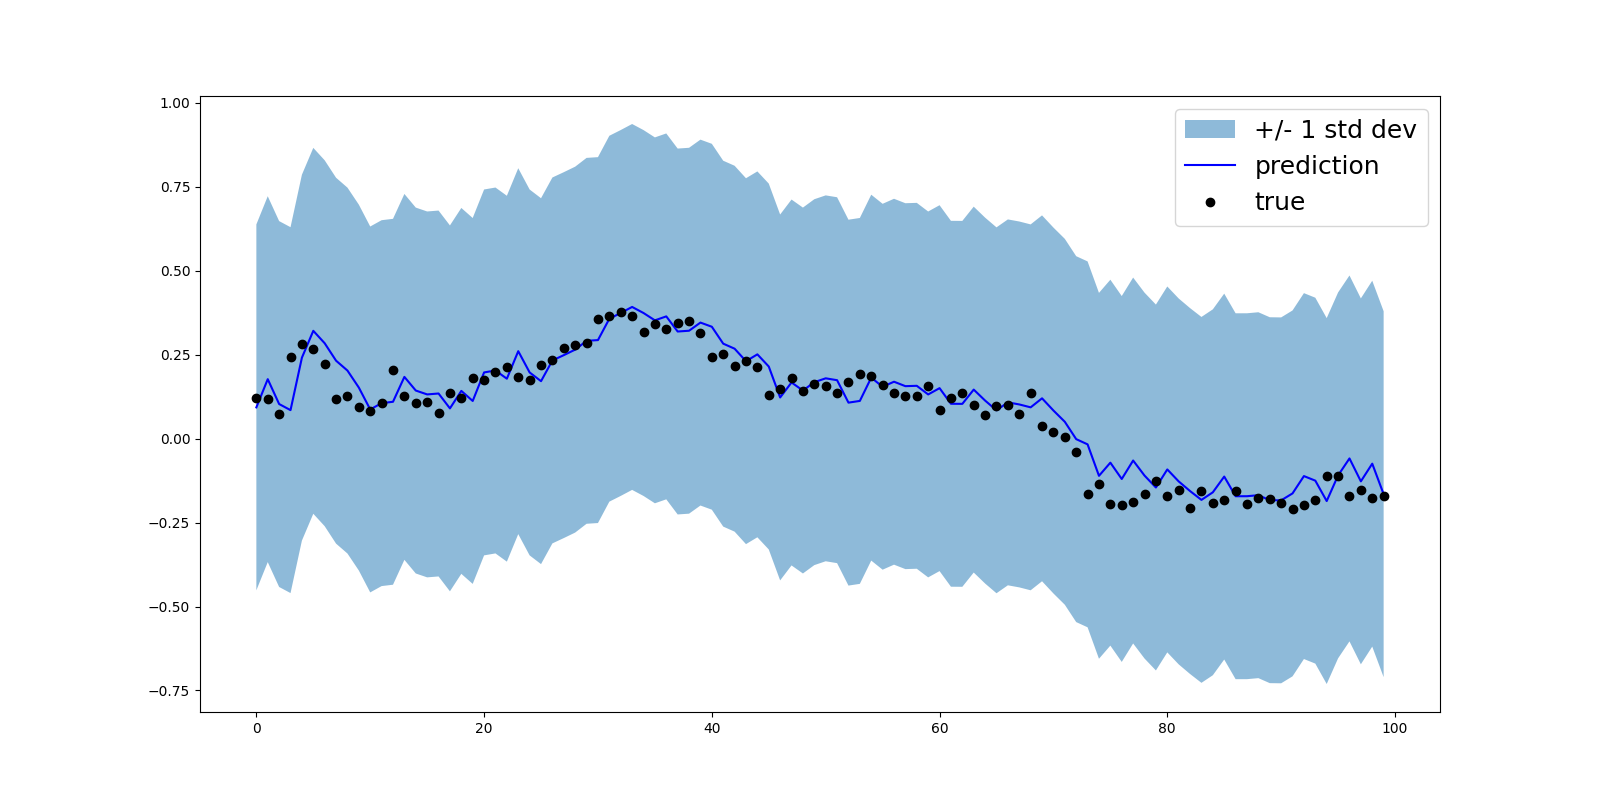
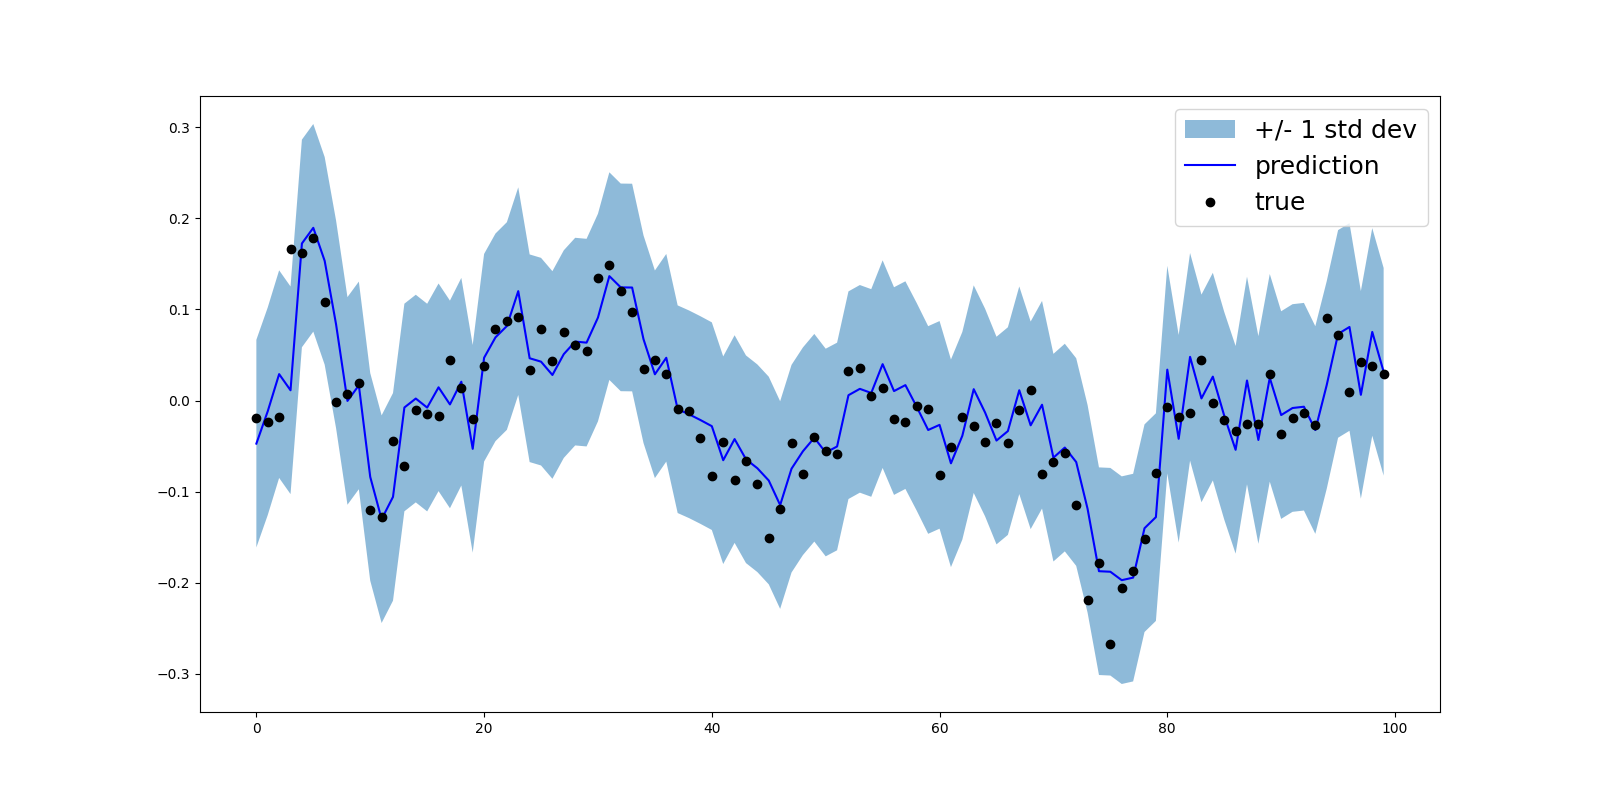
Update fig to readme....

diff --git a/scripts/example1_zero_base_normalization.py b/scripts/example1_zero_base_normalization.py
@@ -1,7 +1,6 @@
-import numpy as np
-from tqdm.auto import trange
 import torch
 from torch.autograd import Variable
+from tqdm.auto import trange
 
 
 class LSTM(torch.nn.Module):
@@ -28,7 +27,7 @@ class LSTM(torch.nn.Module):
         history = []
         with trange(1, epochs + 1, desc='Training', leave=True) as steps:
             for k in steps:
-                y_pred = self.forward(x=X_torch)
+                y_pred = torch.squeeze(self.forward(x=X_torch))
                 loss = loss_fn(y_pred, y_torch)
                 status = {'loss': loss.item()}
                 history.append(status['loss'])
@@ -36,93 +35,58 @@ class LSTM(torch.nn.Module):
                 optimizer.zero_grad()  # Zero gradients
                 loss.backward()  # Gradients
                 optimizer.step()  # Update
-
         return history
 
 
 if __name__ == '__main__':
     # from sklearn.model_selection import train_test_split
-    from sklearn.preprocessing import StandardScaler, MinMaxScaler
+    from sklearn.preprocessing import StandardScaler
     from sklearn.metrics import mean_absolute_error
+    import numpy as np
     import pandas as pd
     import matplotlib.pyplot as plt
     from vector_analytica_forecast import tools
 
     torch.manual_seed(0)
     torch.cuda.manual_seed(0)
-
     df = pd.read_csv('../data/BTCUSDT_last_2000days_20220818.csv', parse_dates=['Open_time'], index_col='Open_time')
-    # df = pd.read_csv('data/BTCUSDT_last_2000days_20220818.csv', parse_dates=['Open_time'], index_col='Open_time')
-    print(df.head())
-
+    print(df.tail())
     target_col = 'Close'
     window = 7
-
-    # train test split
-    train_data, test_data = tools.train_test_split(np.log(df), test_size=0.1)
-
-    x_scaler = StandardScaler()
-    x_scaler.fit(train_data)
-
-    # extract targets
-    y_train = train_data[target_col][window:].values.reshape(-1, 1)
-    y_test = test_data[target_col][window:].values.reshape(-1, 1)
-
-    # extract window data
-    X_train = tools.extract_window_data(x_scaler.transform(train_data), window, False)
-    X_test = tools.extract_window_data(x_scaler.transform(test_data), window, False)
-
-    # train, test, X_train, X_test, y_train, y_test = tools.prepare_data(df=df, target_col=target_col, window_len=window,
-    #                                                                    zero_base=False, test_size=0.1)
-
+    train, test, X_train, X_test, y_train, y_test = tools.prepare_data(df=df, target_col=target_col, window_len=window,
+                                                                       zero_base=True, test_size=0.1)
     print(X_train.shape, y_train.shape, y_train.min(), y_train.max())
-    print(X_test.shape, y_test.shape, y_test.min(), y_test.max())
-
-    print(test_data[-window:])
-    print(test_data[-window:].shape)
-
-    # assert 1==3, "Fin"
-
-    y_scaler = StandardScaler()
-    y_scaler.fit(y_train)
-    y_train_scaled = y_scaler.transform(y_train)
-
     model = LSTM(input_dim=X_train.shape[-1], output_dim=1)
-    model.fit(X=X_train, y=y_train_scaled, epochs=1000)
-
+    model.fit(X=X_train, y=y_train, epochs=500)
     y_test_pred = np.squeeze(model(torch.as_tensor(X_test, dtype=torch.float32)).detach().numpy())
-    y_test_scaled = y_scaler.transform(y_test)
-    print(f'mean_absolute_error (test): {mean_absolute_error(y_test_scaled, y_test_pred)}')
+    print(f'mean_absolute_error (test): {mean_absolute_error(y_test, y_test_pred)}')
 
     idx_fin = 100
     fig, ax = plt.subplots(figsize=(16, 8))
     x_vec = np.arange(len(X_test))
-    ax.fill_between(x_vec[:idx_fin], y_test_pred[:idx_fin] - np.std(y_train_scaled),
-                    y_test_pred[:idx_fin] + np.std(y_train_scaled),
+    ax.fill_between(x_vec[:idx_fin], y_test_pred[:idx_fin] - np.std(y_train), y_test_pred[:idx_fin] + np.std(y_train),
                     alpha=0.5, label='+/- 1 std dev')
     ax.plot(x_vec[:idx_fin], y_test_pred[:idx_fin], label='prediction', color='blue')
-    ax.plot(x_vec[:idx_fin], np.squeeze(y_test_scaled)[:idx_fin], 'ko', label='true')
+    ax.plot(x_vec[:idx_fin], np.squeeze(y_test)[:idx_fin], 'ko', label='true')
+    ax.legend()
     ax.legend(loc='best', fontsize=18)
     plt.savefig('../figs/lstm_scaled_results.png')
     plt.show()
 
-    targets = test_data[target_col][window:]
-    # preds_ts = pd.Series(data=test_data[target_col].values[:-window] * (y_test_pred + 1),
-    #                      index=targets.index)
-    preds_ts = pd.Series(data=np.squeeze(y_scaler.inverse_transform(y_test_pred.reshape(-1, 1))),
+    targets = test[target_col][window:]
+    preds_ts = pd.Series(data=test[target_col].values[:-window] * (y_test_pred + 1),
                          index=targets.index)
-
-    # n_points = 200
+    n_points = 200
     fig, ax = plt.subplots(1, figsize=(16, 9))
-    ax.plot(targets[:-1], label='real', linewidth=3)
-    ax.plot(preds_ts.shift(-1), label='pred', linewidth=3)
+    ax.plot(targets[-n_points:][:-1], label='real', linewidth=3)
+    ax.plot(preds_ts[-n_points:].shift(-1), label='pred', linewidth=3)
     ax.set_ylabel('price [USD]', fontsize=14)
     ax.set_title('BTC prediction using LSTM with pytorch', fontsize=18)
     ax.legend(loc='best', fontsize=18)
     plt.savefig('../figs/lstm_results.png')
     plt.show()
 
-    x_new = x_scaler.transform(test_data[-window:])
+    x_new = np.array(tools.normalise_zero_base(df.iloc[-window:]))
     y_new = model(torch.tensor(x_new).unsqueeze(0).float()).detach().numpy()
-    y_new = np.squeeze(np.exp(y_scaler.inverse_transform(y_new)))[0]
+    y_new = np.squeeze(df[target_col].values[-window] * (y_new+1))
     print(f'LSTM Prediction for next day: {y_new} USDT')
